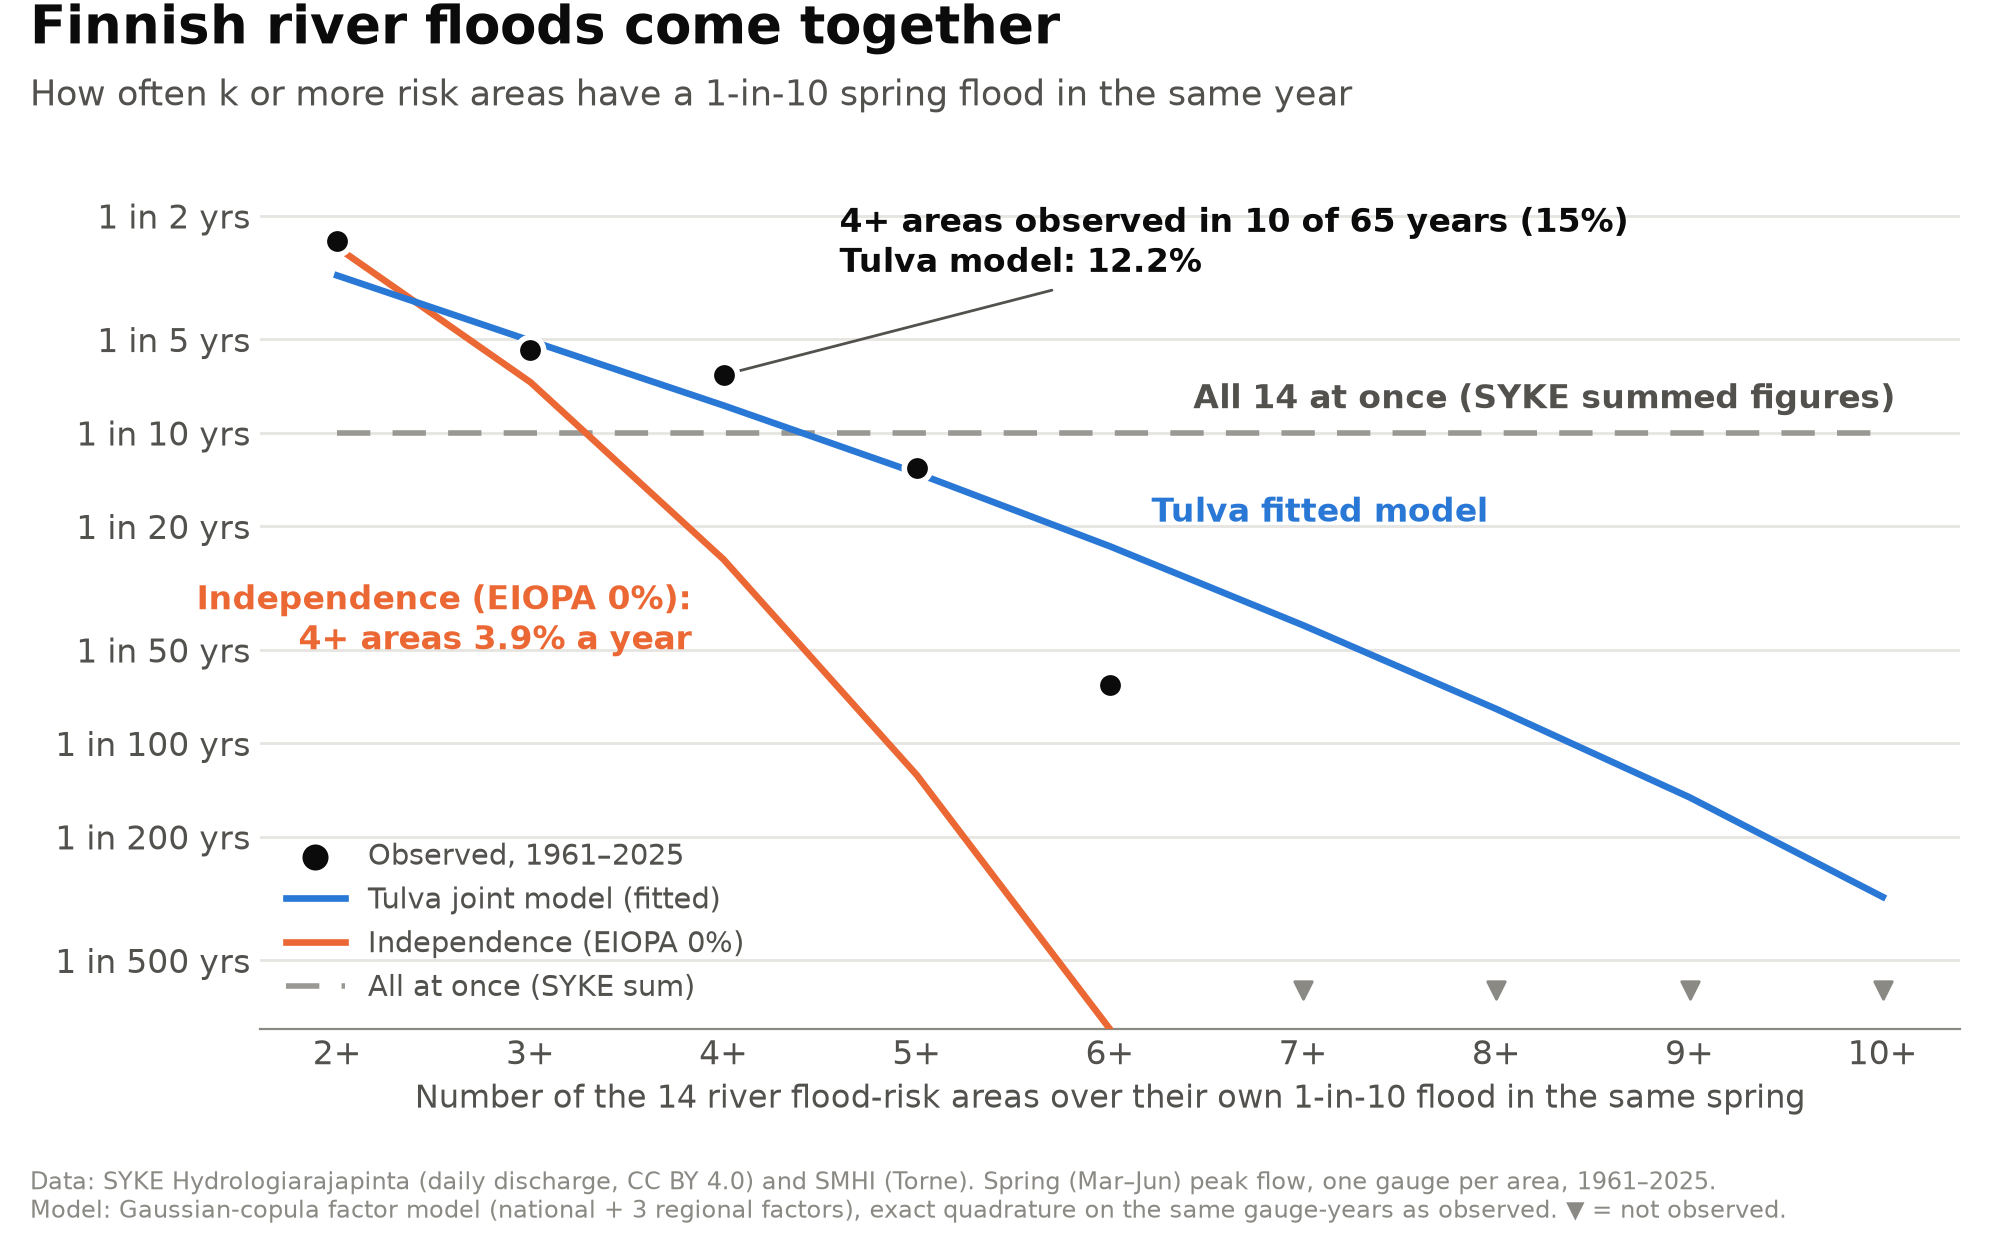
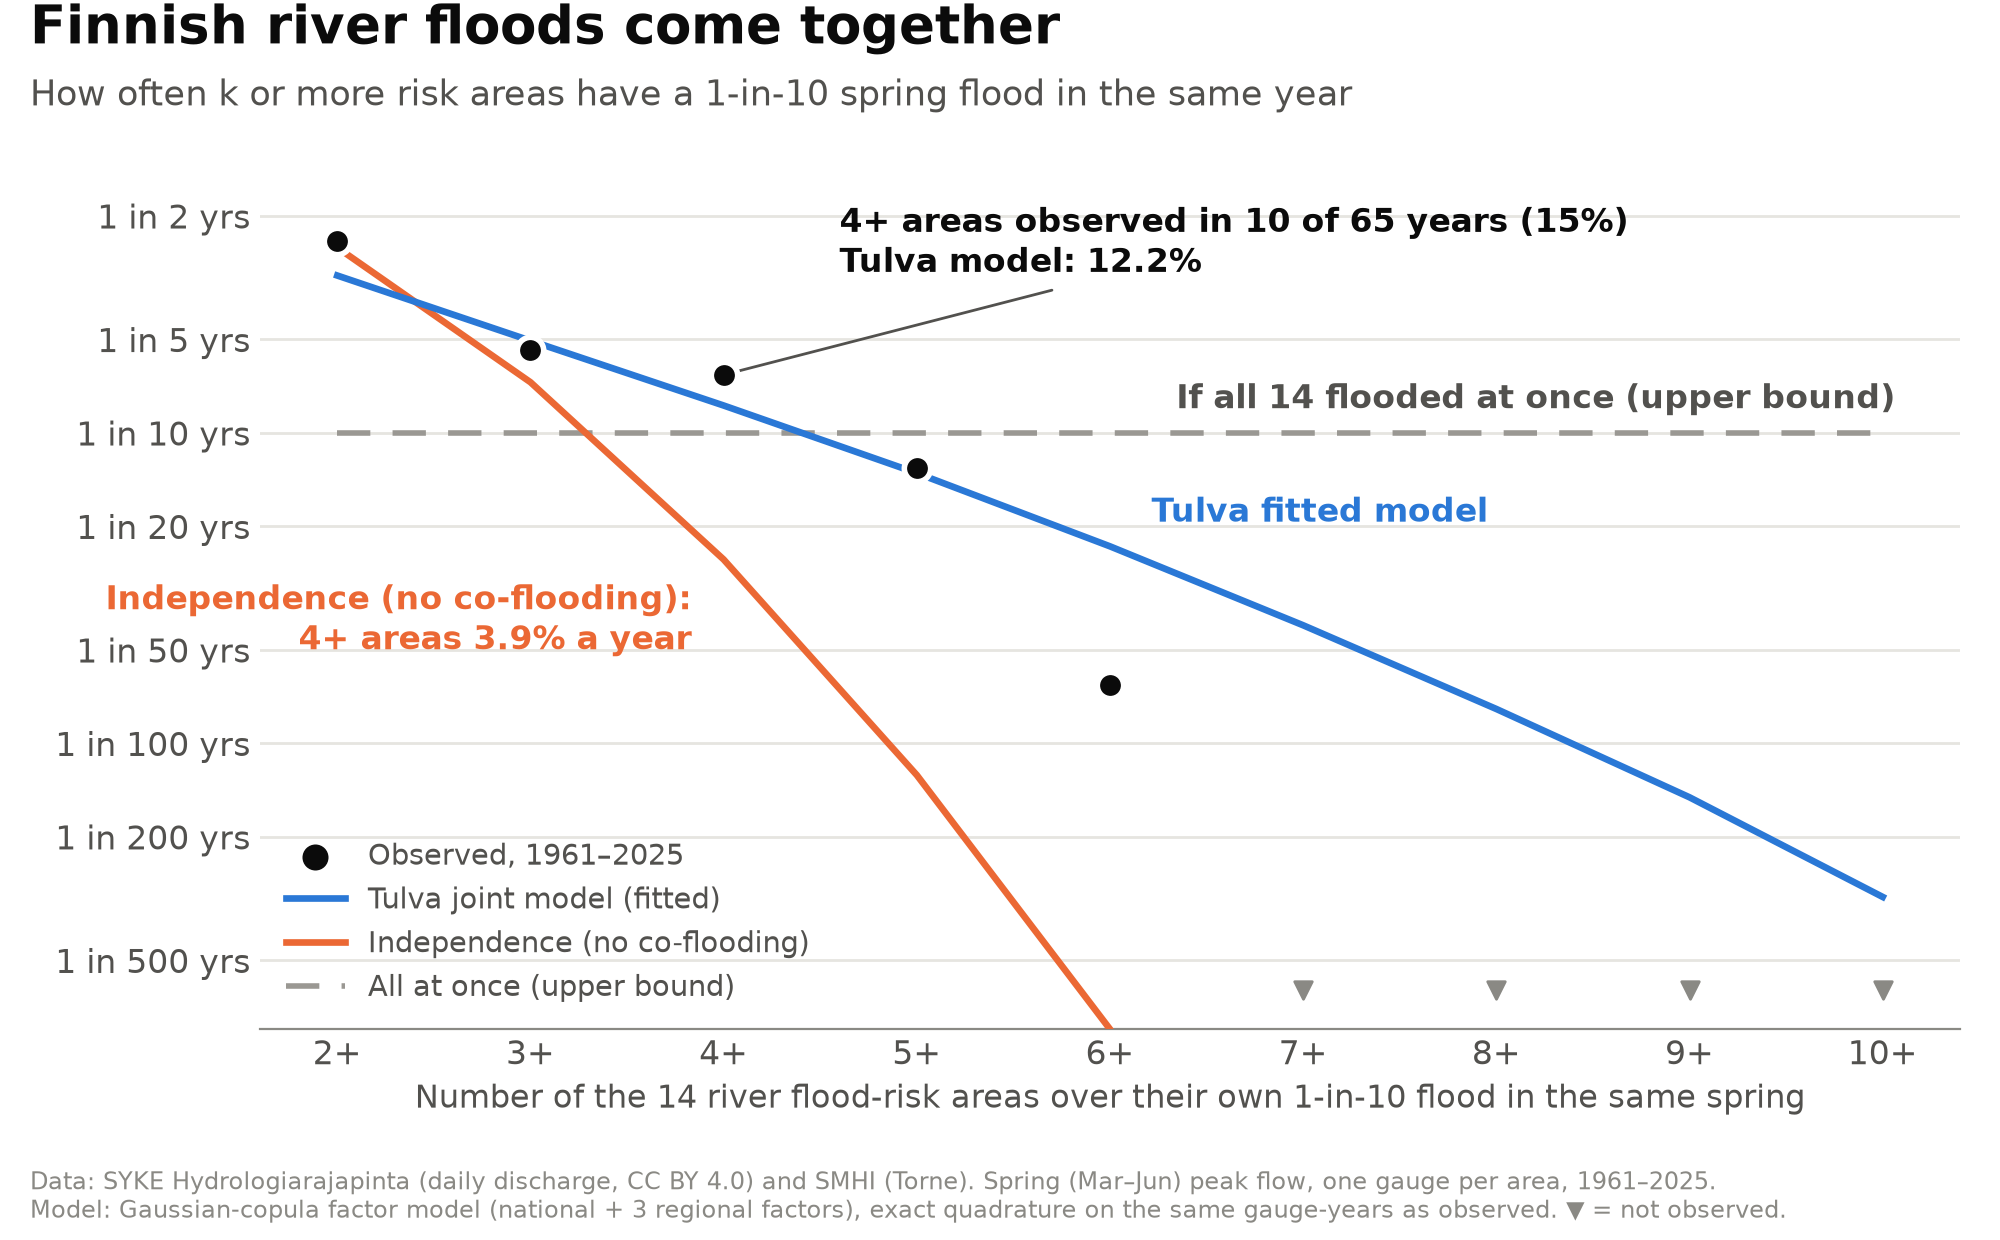
Charts: baseline relabelled 'independence (no co-flooding)', all-at-once as upper bound

Changed region(s): [[0.589, 0.3065, 0.961, 0.3371], [0.279, 0.7355, 0.403, 0.8274], [0.062, 0.4597, 0.341, 0.4903]]

diff --git a/scripts/plot_joint.py b/scripts/plot_joint.py
@@ -60,9 +60,9 @@ def lab(x, y, text, color, dy=0, ha="left"):
     ax.annotate(text, (x, y), xytext=(8, dy), textcoords="offset points", color=color, fontsize=12,
                 fontweight="bold", va="center", ha=ha)
 
-lab(k[-1] - 0.05, 0.1, "All 14 at once (SYKE summed figures)", INK2, dy=12, ha="right")
+lab(k[-1] - 0.05, 0.1, "If all 14 flooded at once (upper bound)", INK2, dy=12, ha="right")
 i4 = list(k).index(4)
-ax.annotate(f"Independence (EIOPA 0%):\n4+ areas {ind[i4]*100:.1f}% a year", (3.92, ind[i4]), xytext=(-6, -22),
+ax.annotate(f"Independence (no co-flooding):\n4+ areas {ind[i4]*100:.1f}% a year", (3.92, ind[i4]), xytext=(-6, -22),
             textcoords="offset points", color=ORANGE, fontsize=12, fontweight="bold", va="center", ha="right")
 j = list(k).index(6)
 lab(6.1, mod[j], f"Tulva fitted model", BLUE, dy=12)
@@ -71,8 +71,8 @@ ax.annotate(f"4+ areas observed in {nobs[i4]} of {ny} years ({obs[i4]*100:.0f}%)
             arrowprops=dict(arrowstyle="-", color=INK2, lw=1))
 ax.scatter([], [], s=70, color=INK, label=f"Observed, {1961}–{1960 + ny}")
 ax.plot([], [], color=BLUE, lw=2.4, label="Tulva joint model (fitted)")
-ax.plot([], [], color=ORANGE, lw=2.4, label="Independence (EIOPA 0%)")
-ax.plot([], [], color=GRAY, lw=2, ls=(0, (6, 4)), label="All at once (SYKE sum)")
+ax.plot([], [], color=ORANGE, lw=2.4, label="Independence (no co-flooding)")
+ax.plot([], [], color=GRAY, lw=2, ls=(0, (6, 4)), label="All at once (upper bound)")
 ax.legend(loc="lower left", frameon=False, fontsize=10.5, labelcolor=INK2)
 
 fig.text(0.015, 0.965, "Finnish river floods come together", fontsize=19, fontweight="bold", color=INK)

diff --git a/scripts/loader_check.py b/scripts/loader_check.py
@@ -91,7 +91,7 @@ ax.semilogy(ks, [r["p_at_least_k_ideal_sampled"][k] for k in ks], "o", color="#1
 ax.semilogy(ks, [r["p_at_least_k_noisy_sampled"][k] for k in ks], "s", mfc="none", color="#d4a72c", ms=8,
             label="Loader circuit, noisy simulator (0.5 % CZ, 2–3 % readout, 4k shots)")
 ax.semilogy(ks, [r["p_at_least_k_independent"][k] for k in ks], "--", color="#cf222e", lw=2,
-            label="Independence (EIOPA 0 %)")
+            label="Independence (no co-flooding)")
 ax.set_xlabel("k = number of the 14 river areas over their 1-in-10 spring level")
 ax.set_ylabel("P(k or more in the same spring)")
 ax.set_title(f"Finland's joint spring-flood model on one circuit: {r['qubits']} qubits, {r['cz_q20_like_grid']} two-qubit gates",
